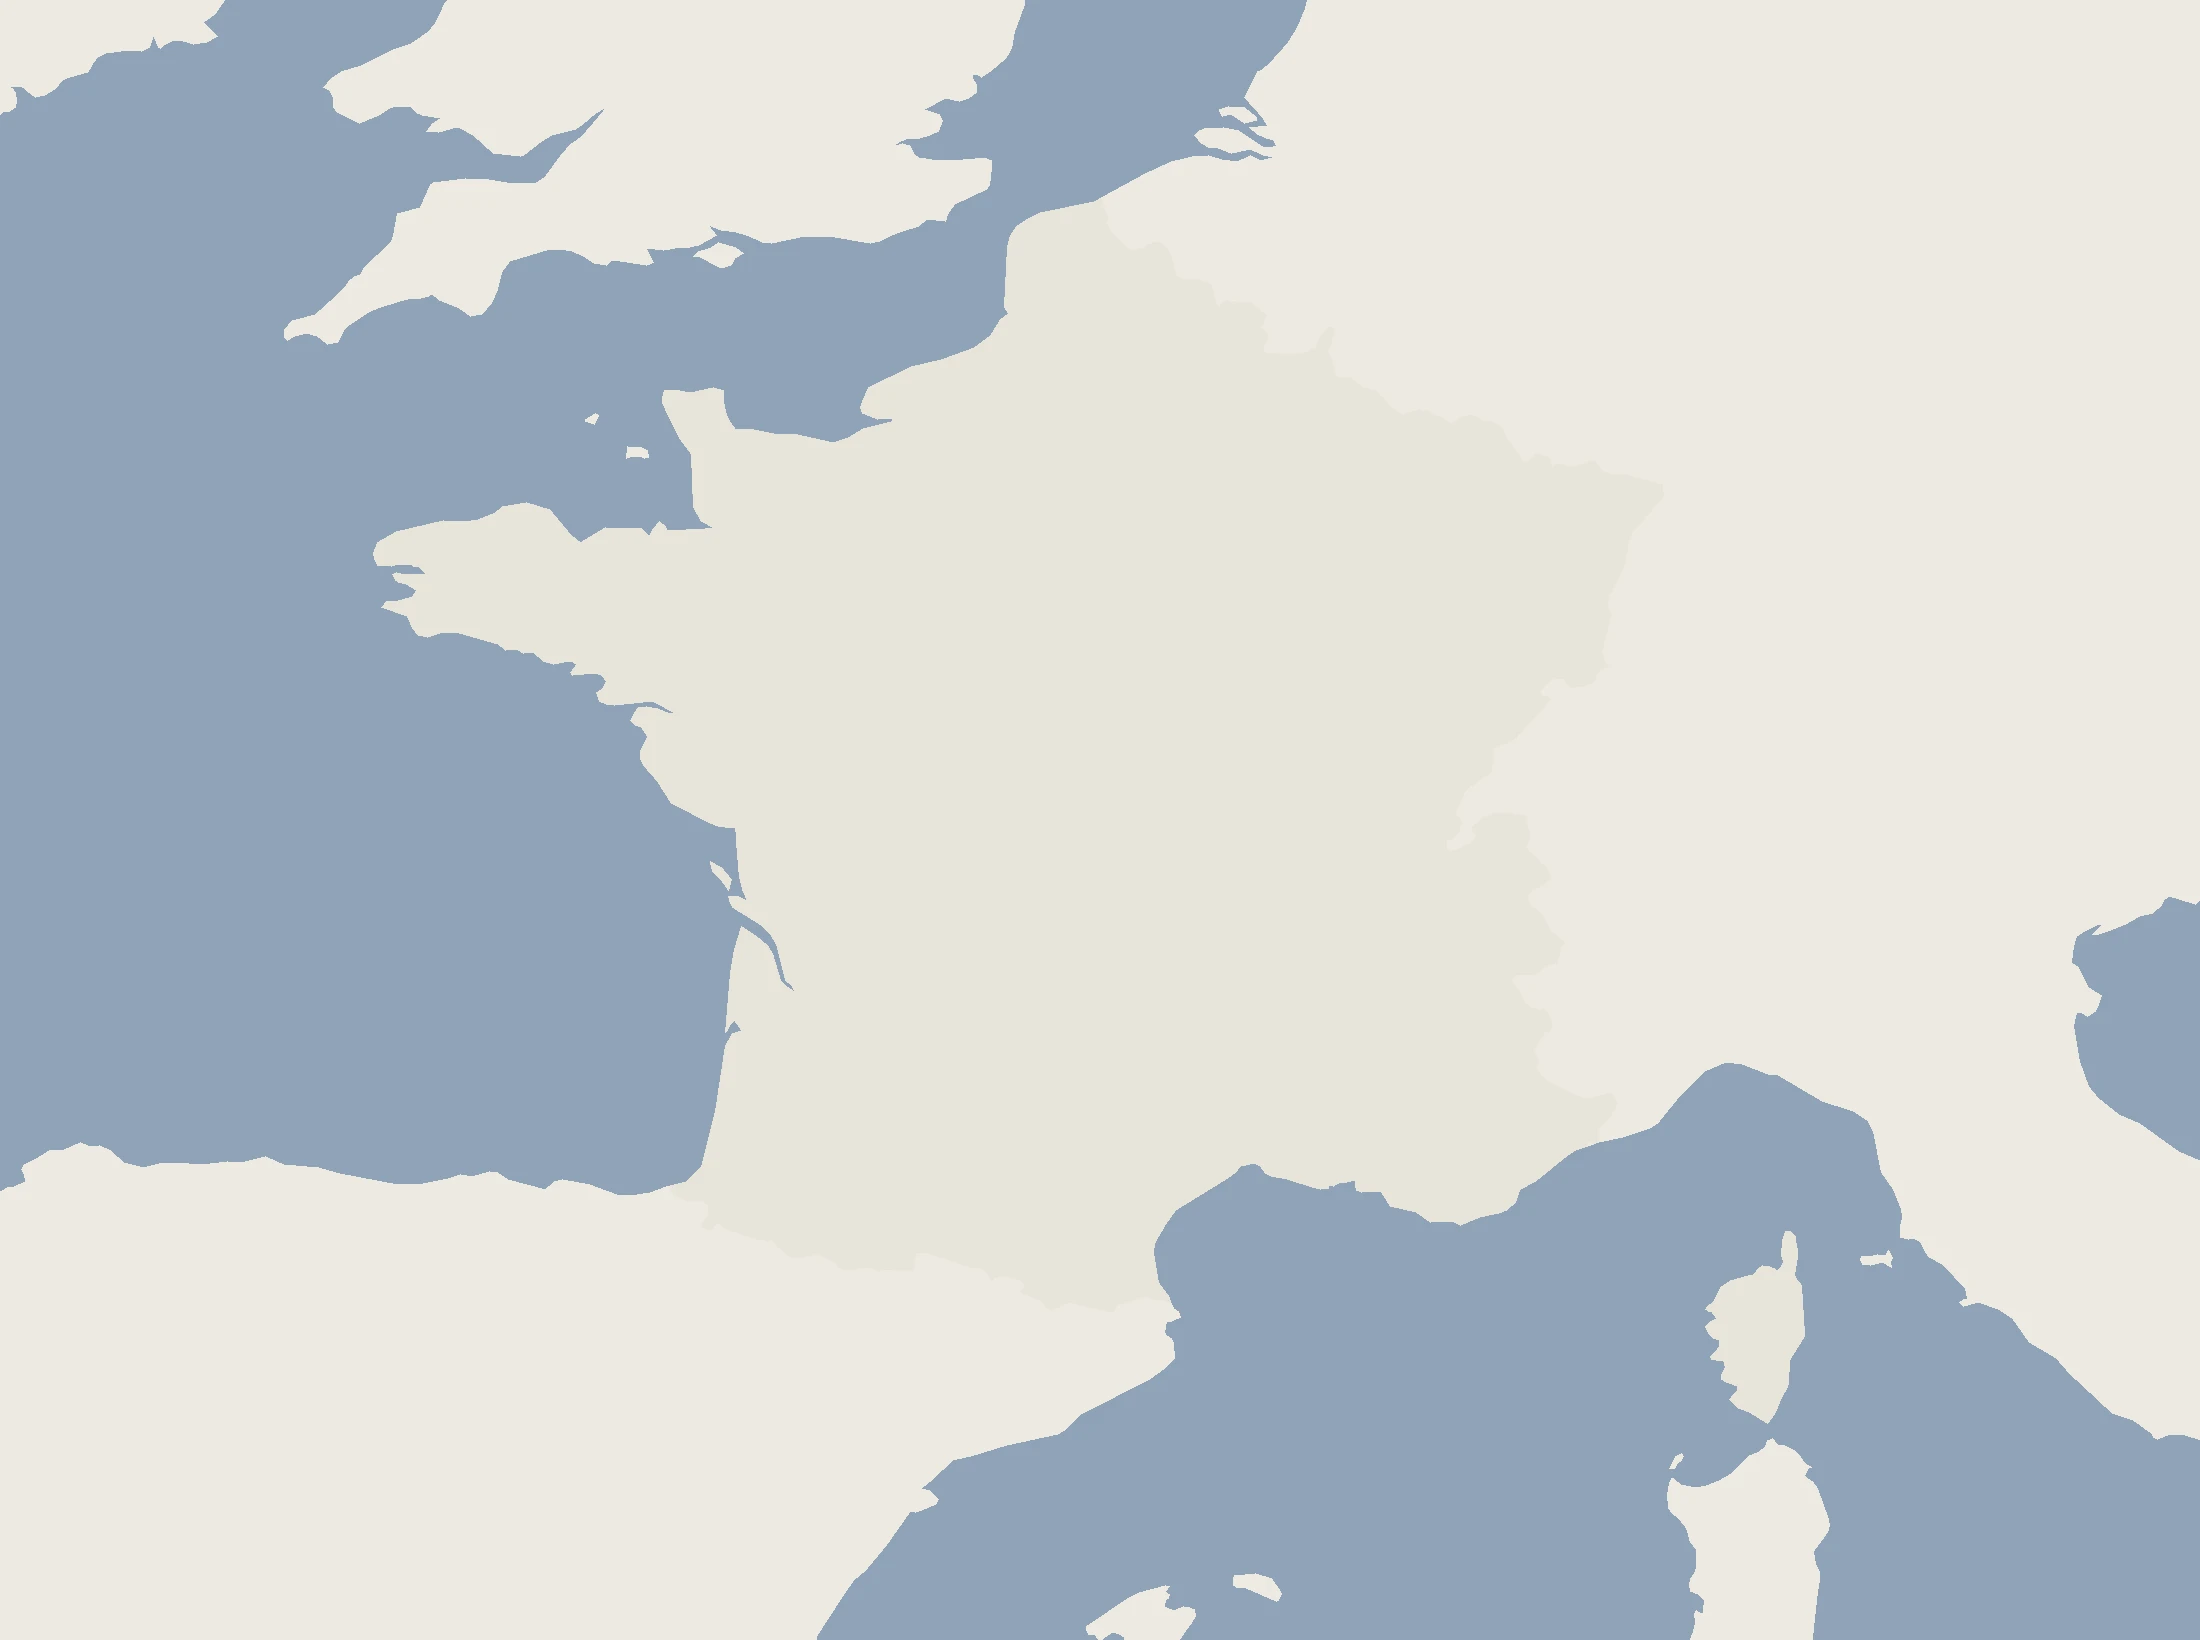
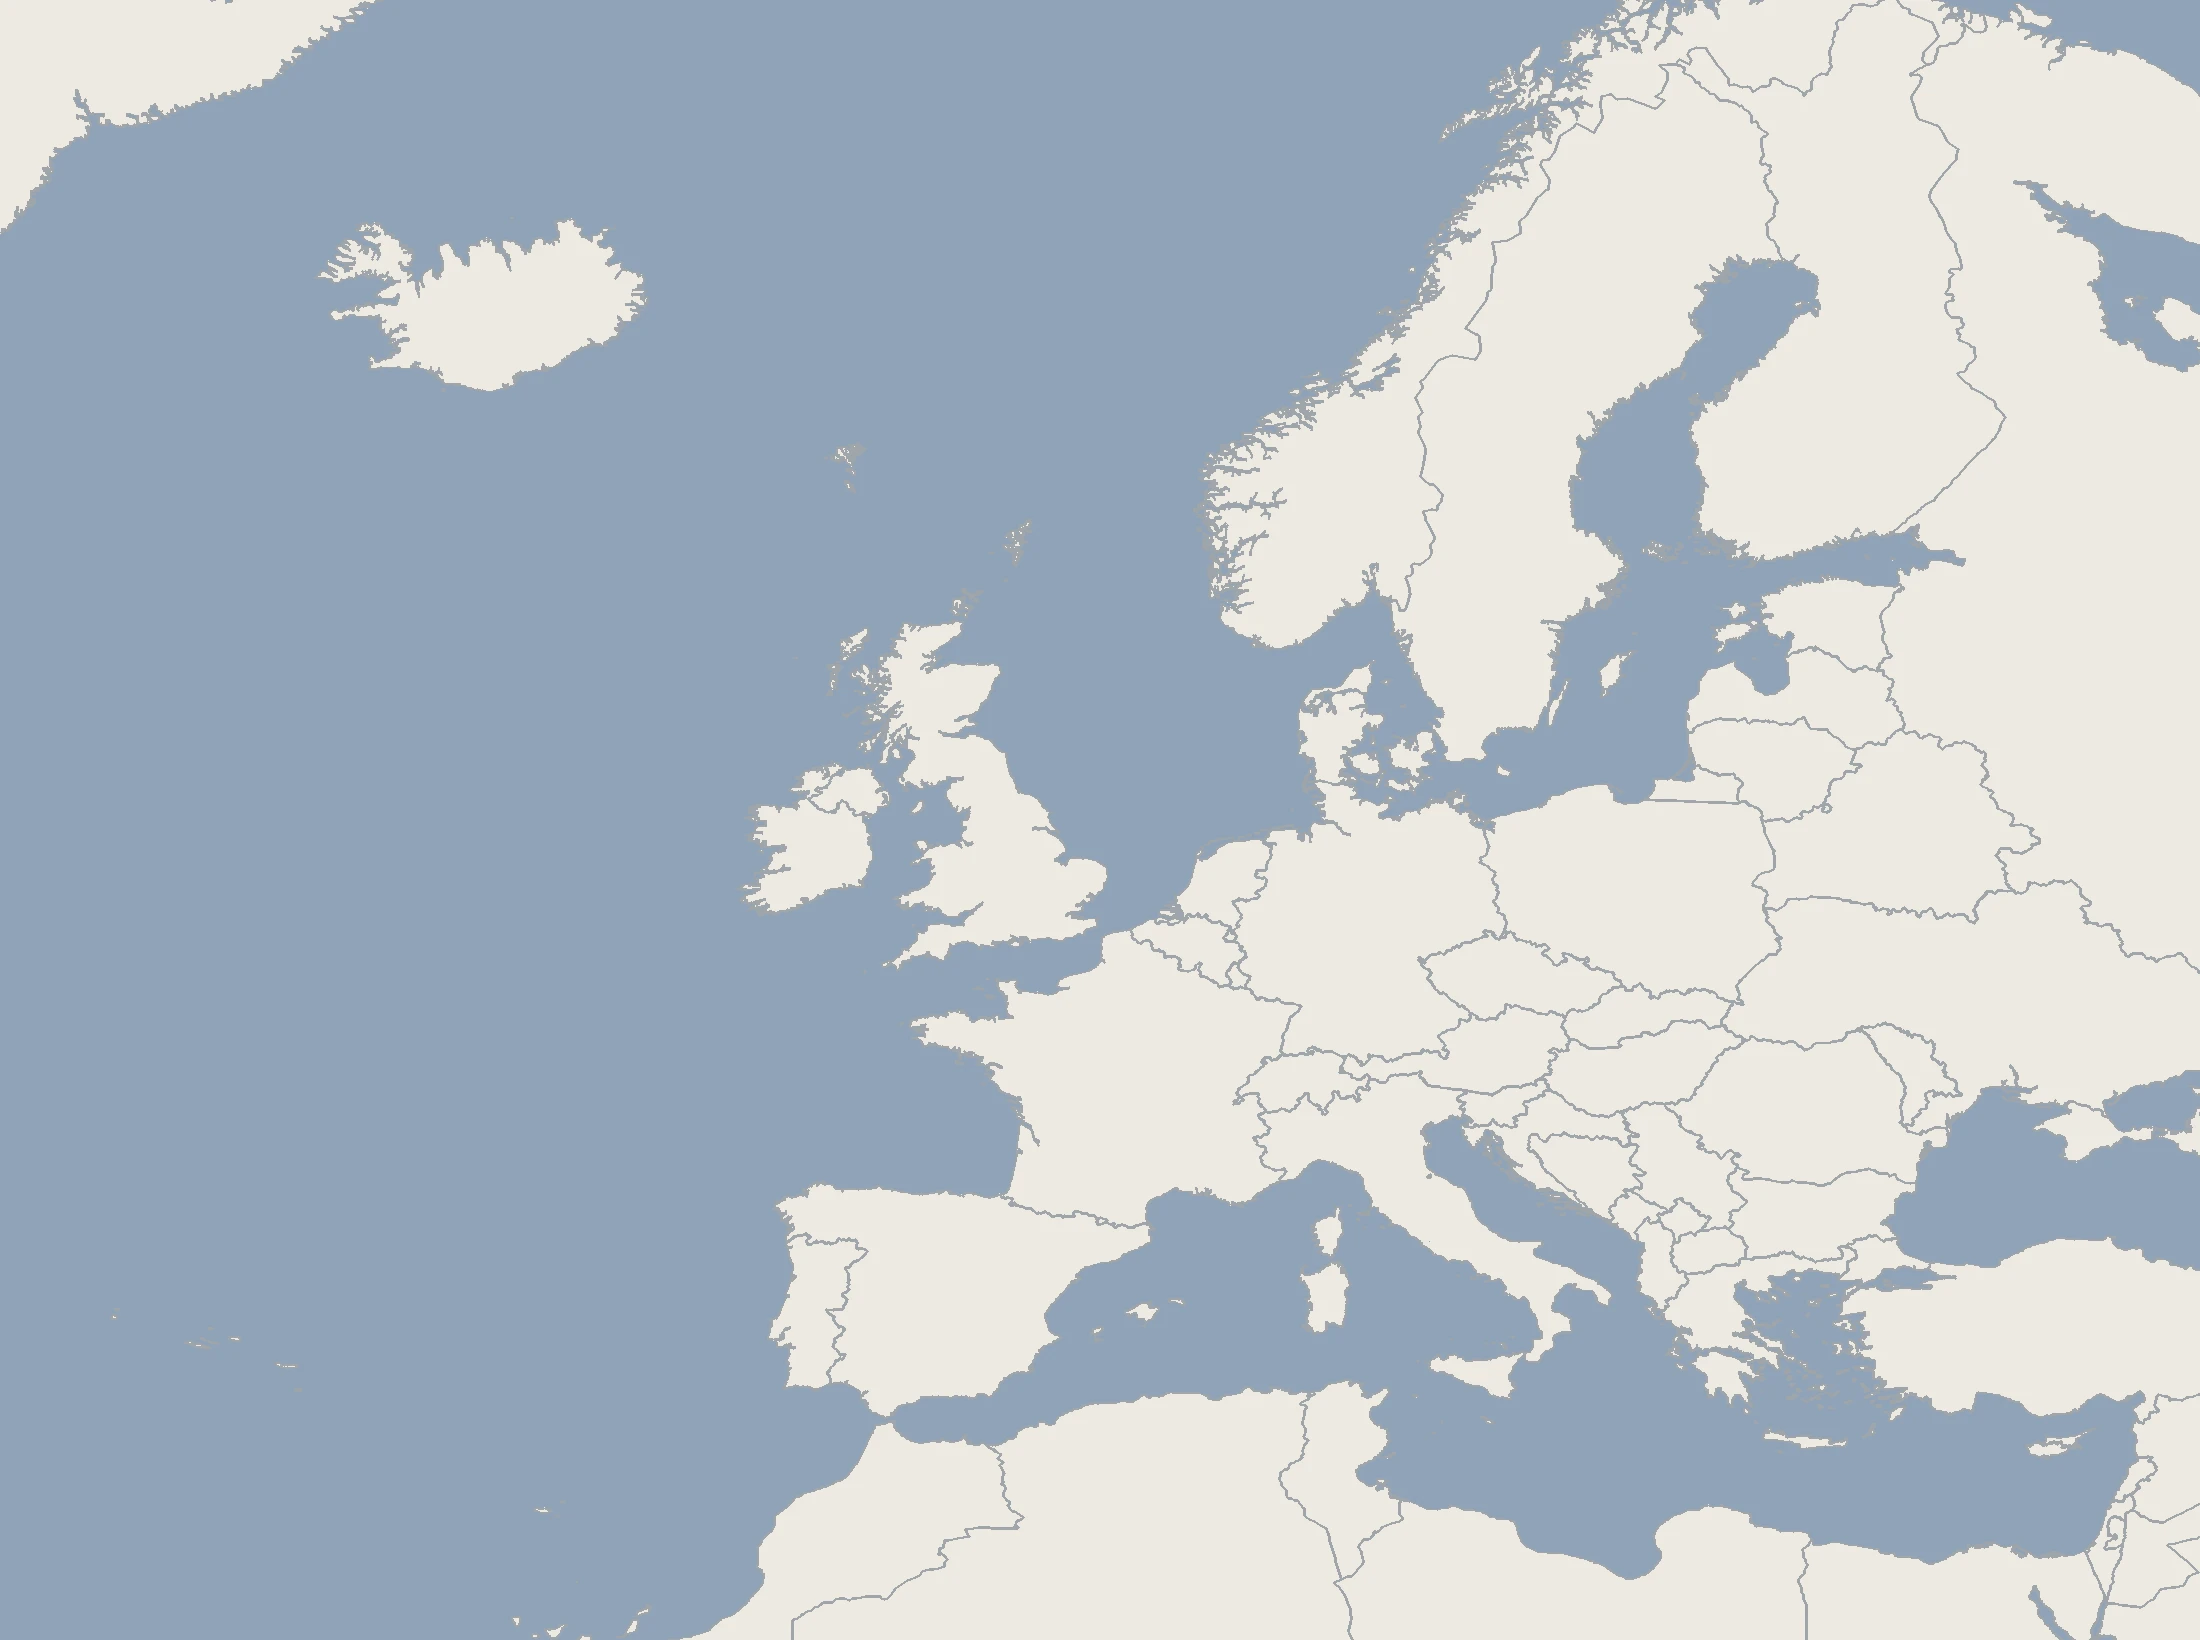
feat(europe-synoptique): domaine etendu Europe Atlantique (Groenland, Islande, Europe, Maghreb) et rendu z500 isobares

diff --git a/pipeline/gfs_pipeline.py b/pipeline/gfs_pipeline.py
@@ -12,6 +12,9 @@ import os, sys, json, datetime, tempfile, urllib3, time
 import requests, numpy as np
 from PIL import Image
 from scipy.interpolate import RegularGridInterpolator
+import matplotlib
+matplotlib.use('Agg')
+import matplotlib.pyplot as plt
 
 urllib3.disable_warnings()
 
@@ -25,12 +28,12 @@ from fetch_and_render_all import (
 )
 
 WIDTH, HEIGHT = 2200, 1640
-# Domaine etendu Europe et France
-BOUNDS = {"south": 32.0, "west": -18.0, "north": 65.0, "east": 32.0}
+# Domaine synoptique Europe Atlantique exact (Islande, Groenland, Europe, Maghreb)
+BOUNDS = {"south": 28.0, "west": -35.0, "north": 70.0, "east": 38.0}
 
 def mercator_y(lat):
-    r = np.radians(np.clip(lat, -85.0, 85.0))
-    return np.log(np.tan(np.pi / 4.0 + r / 2.0))
+    lat = max(-85.0, min(85.0, lat))
+    return np.log(np.tan(np.pi / 4.0 + np.radians(lat) / 2.0))
 
 N_Y = mercator_y(BOUNDS["north"])
 S_Y = mercator_y(BOUNDS["south"])
@@ -56,6 +59,26 @@ def regrid_europe(data, src_lats, src_lons):
     )
     pts = np.column_stack((GRID_LATS.ravel(), GRID_LONS.ravel()))
     return interp(pts).reshape((HEIGHT, WIDTH)).astype(np.float32)
+
+def render_z500_with_isobars(z500_grid, prmsl_grid, output_path):
+    pal = PALETTES.get("geopotentiel_500", PALETTES["temperature"])
+    base_img = apply_palette(z500_grid, pal)
+    
+    fig = plt.figure(figsize=(WIDTH / 100.0, HEIGHT / 100.0), dpi=100)
+    ax = fig.add_axes([0, 0, 1, 1])
+    ax.axis("off")
+    ax.imshow(base_img, origin="upper", extent=[0, WIDTH, HEIGHT, 0])
+    
+    if prmsl_grid is not None:
+        gx = np.linspace(0, WIDTH, prmsl_grid.shape[1])
+        gy = np.linspace(0, HEIGHT, prmsl_grid.shape[0])
+        GX, GY = np.meshgrid(gx, gy)
+        levels = np.arange(960, 1055, 5)
+        cs = ax.contour(GX, GY, prmsl_grid, levels=levels, colors="white", linewidths=2.4)
+        ax.clabel(cs, inline=True, fmt="%d", fontsize=16, colors="white")
+    
+    fig.savefig(output_path, format="webp", dpi=100, pil_kwargs={"quality": 88})
+    plt.close(fig)
 
 def run_gfs_pipeline(max_hours=240):
     try:
@@ -117,10 +140,10 @@ def run_gfs_pipeline(max_hours=240):
             "dir": f"/gfs.{day_str}/{h_str}/atmos",
             "file": f"gfs.t{h_str}z.pgrb2.0p25.f{fhh}",
             "subregion": "",
-            "leftlon": "-18",
-            "rightlon": "32",
-            "toplat": "65",
-            "bottomlat": "32",
+            "leftlon": "-35",
+            "rightlon": "38",
+            "toplat": "70",
+            "bottomlat": "28",
         }
         for v in gfs_req_vars:
             params["var_" + v] = "on"
@@ -178,6 +201,12 @@ def run_gfs_pipeline(max_hours=240):
                 try: os.remove(tmp)
                 except: pass
 
+        prmsl_regrid = None
+        if "PRMSL" in cached:
+            p_val, p_la, p_lo = cached["PRMSL"]
+            if p_val.max() > 10000: p_val = p_val / 100.0
+            prmsl_regrid = regrid_europe(p_val, p_la, p_lo)
+
         for layer in LAYERS:
             dst = os.path.join(OUTPUT_DIR, layer, f"{lh:03d}.webp")
 
@@ -189,6 +218,16 @@ def run_gfs_pipeline(max_hours=240):
                     spd = np.sqrt(u.astype(np.float32) ** 2 + v.astype(np.float32) ** 2) * 3.6
                     save_webp(regrid_europe(spd, la, lo), layer, dst)
                     step["files"][layer] = f"maps/{layer}/{lh:03d}.webp"
+                continue
+
+            if layer == "geopotentiel_500" and "HGT" in cached:
+                ensure_dir(os.path.dirname(dst))
+                d, la, lo = cached["HGT"]
+                if d.max() > 15000: d = d / 98.0665
+                elif d.max() > 1000: d = d / 10.0
+                z_regrid = regrid_europe(d, la, lo)
+                render_z500_with_isobars(z_regrid, prmsl_regrid, dst)
+                step["files"][layer] = f"maps/{layer}/{lh:03d}.webp"
                 continue
 
             key = gfs_layer_var.get(layer, "TMP")
@@ -203,11 +242,6 @@ def run_gfs_pipeline(max_hours=240):
                     d = d / 100.0
                 elif layer in ("rafales", "rafales_cumul") and d.max() < 200:
                     d = d * 3.6
-                elif layer == "geopotentiel_500":
-                    if d.max() > 15000:
-                        d = d / 98.0665 # Geopotentiel m2/s2 vers dam
-                    elif d.max() > 1000:
-                        d = d / 10.0    # Metres vers dam
 
                 rf = regrid_europe(d, la, lo)
                 if layer == "rafales_cumul":
